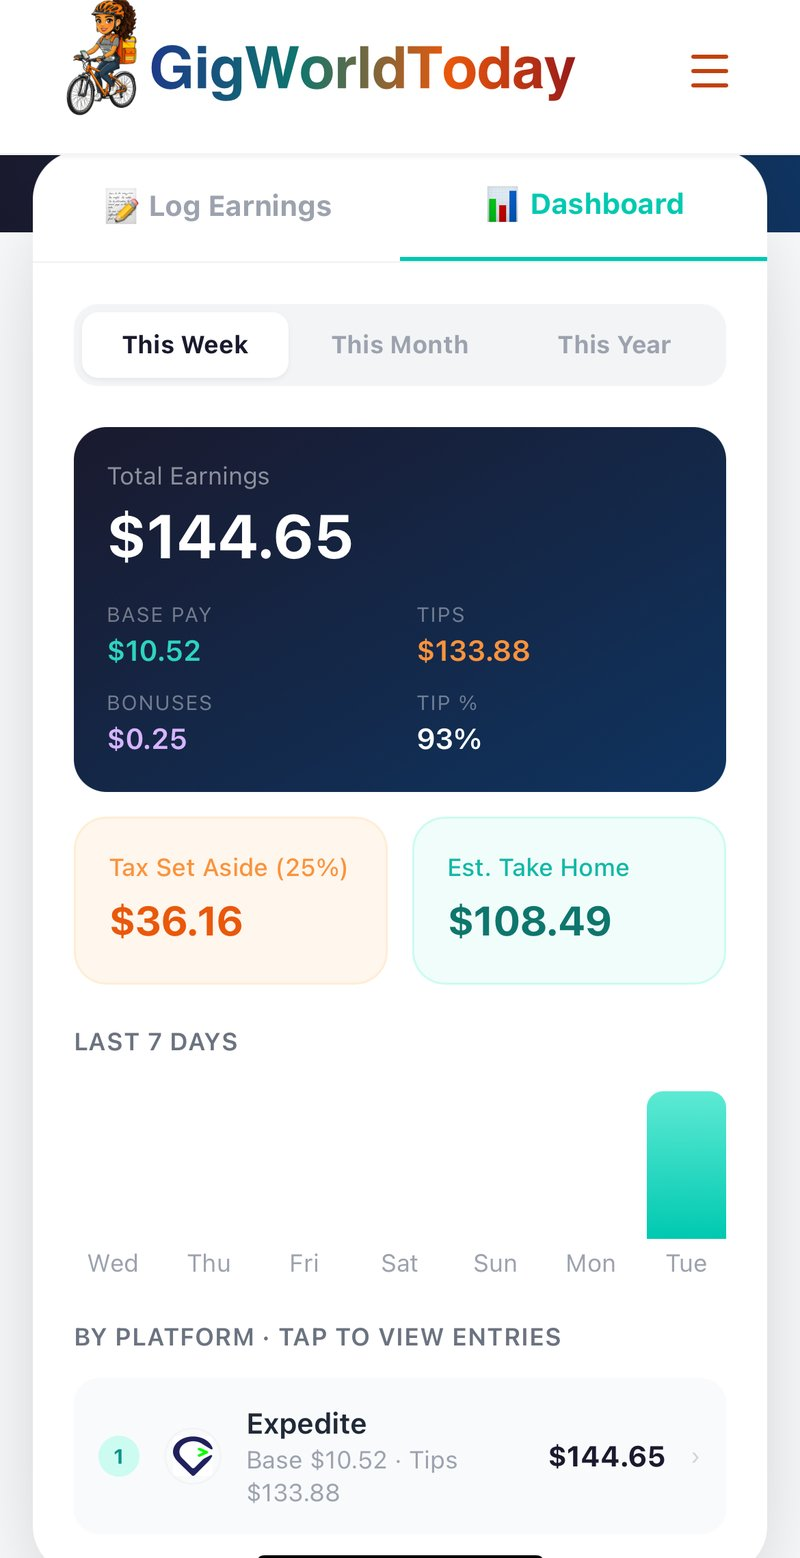
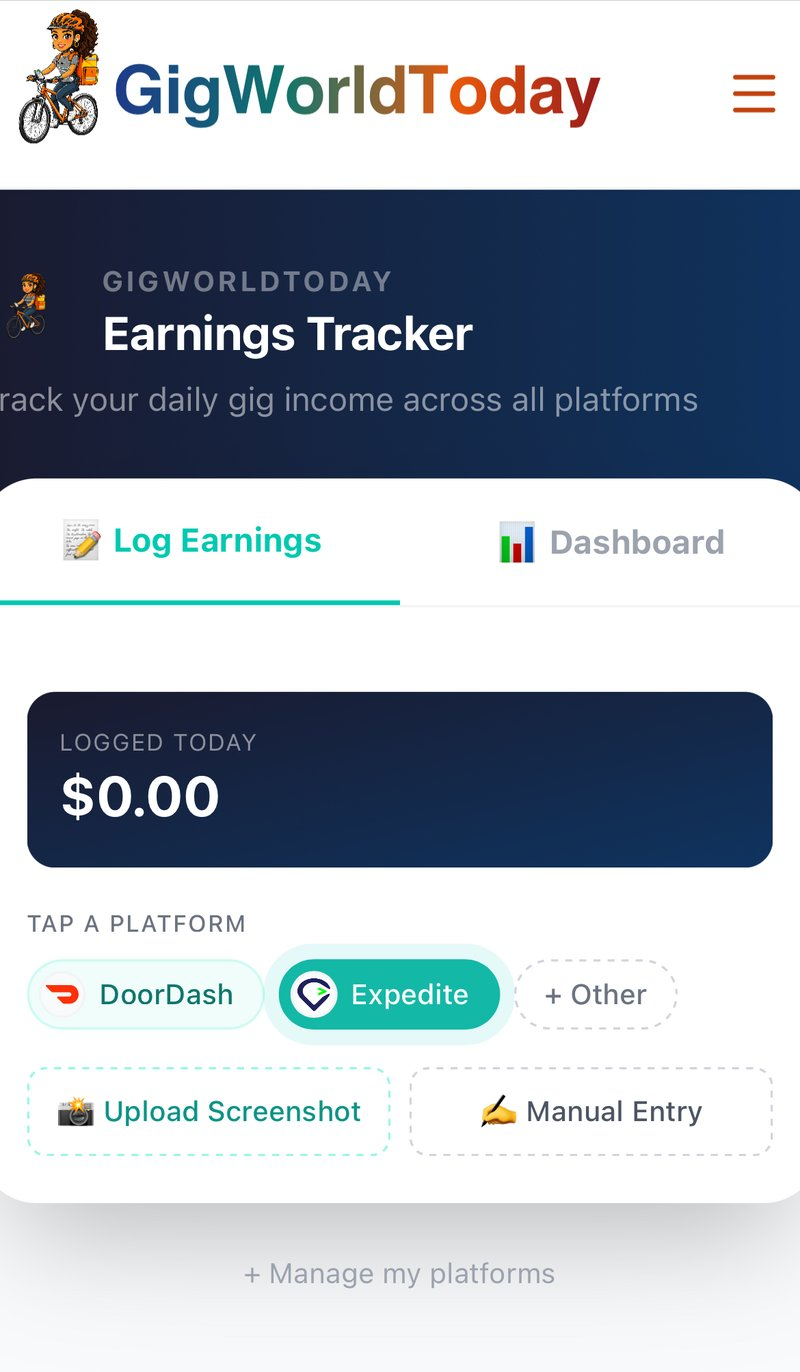
update tutorial to 6 steps starting with platform onboarding

diff --git a/src/components/TrackerTutorial.tsx b/src/components/TrackerTutorial.tsx
@@ -5,48 +5,57 @@ import { useState } from "react";
 const steps = [
   {
     number: 1,
-    title: "Select your platform",
+    title: "Add your platforms",
     description:
-      "Tap the platform you drove for — DoorDash, Uber, Expedite, or any of 70+ others. Then tap 'Upload Screenshot' to get started.",
+      "When you first sign up, search for the platforms you drive for and add them. You can always add more later — we support 70+ gig platforms.",
     image: "/tracker/step-1.jpg",
-    callout: { text: "Tap a platform chip", position: "top-[30%] -left-2" },
+    callout: { text: "Search & add platforms", position: "top-[24%] -left-2" },
     accent: "#00C9B1",
   },
   {
     number: 2,
-    title: "Upload your screenshot",
+    title: "Select your platform",
     description:
-      "Take a screenshot from any gig platform app — weekly summary, order receipt, or pay statement. Our AI reads it automatically.",
+      "Tap the platform you drove for from your saved chips. Then choose to upload a screenshot or enter earnings manually.",
     image: "/tracker/step-2.jpg",
-    callout: { text: "AI reading your screenshot", position: "top-[30%] -left-2" },
+    callout: { text: "Tap a platform chip", position: "top-[36%] -left-2" },
     accent: "#F97316",
   },
   {
     number: 3,
-    title: "Review & save",
+    title: "Upload your screenshot",
     description:
-      "We pre-fill base pay, tips, bonuses, and state adjustments automatically. Review the numbers, make any edits, then hit Save.",
+      "Take a screenshot from any gig platform app — weekly summary, order receipt, or pay statement. Our AI reads it automatically.",
     image: "/tracker/step-3.jpg",
-    callout: { text: "Numbers auto-extracted", position: "top-[28%] -left-2" },
+    callout: { text: "AI reading screenshot", position: "top-[36%] -left-2" },
     accent: "#1A1A2E",
   },
   {
     number: 4,
-    title: "See your weekly earnings",
+    title: "Review & save",
     description:
-      "Your dashboard shows total earnings broken down by base pay, tips, and bonuses — plus tax estimates and estimated take-home.",
+      "We pre-fill base pay, tips, bonuses, and state adjustments automatically. Review the numbers, make any edits, then hit Save.",
     image: "/tracker/step-4.jpg",
-    callout: { text: "Tax + take-home calculated", position: "top-[42%] -left-2" },
+    callout: { text: "Numbers auto-extracted", position: "top-[28%] -left-2" },
     accent: "#00C9B1",
   },
   {
     number: 5,
+    title: "See your weekly earnings",
+    description:
+      "Your dashboard shows total earnings broken down by base pay, tips, and bonuses — plus tax estimates and estimated take-home pay.",
+    image: "/tracker/step-5.jpg",
+    callout: { text: "Tax + take-home calculated", position: "top-[42%] -left-2" },
+    accent: "#F97316",
+  },
+  {
+    number: 6,
     title: "Compare by platform",
     description:
-      "See which platforms pay the most. Tap any platform row to drill into individual entries, edit amounts, or delete entries.",
-    image: "/tracker/step-5.jpg",
+      "See which platforms pay you the most. Tap any platform row to drill into individual entries, edit amounts, or delete entries.",
+    image: "/tracker/step-6.jpg",
     callout: { text: "Tap to drill down", position: "top-[72%] -left-2" },
-    accent: "#F97316",
+    accent: "#1A1A2E",
   },
 ];
 
